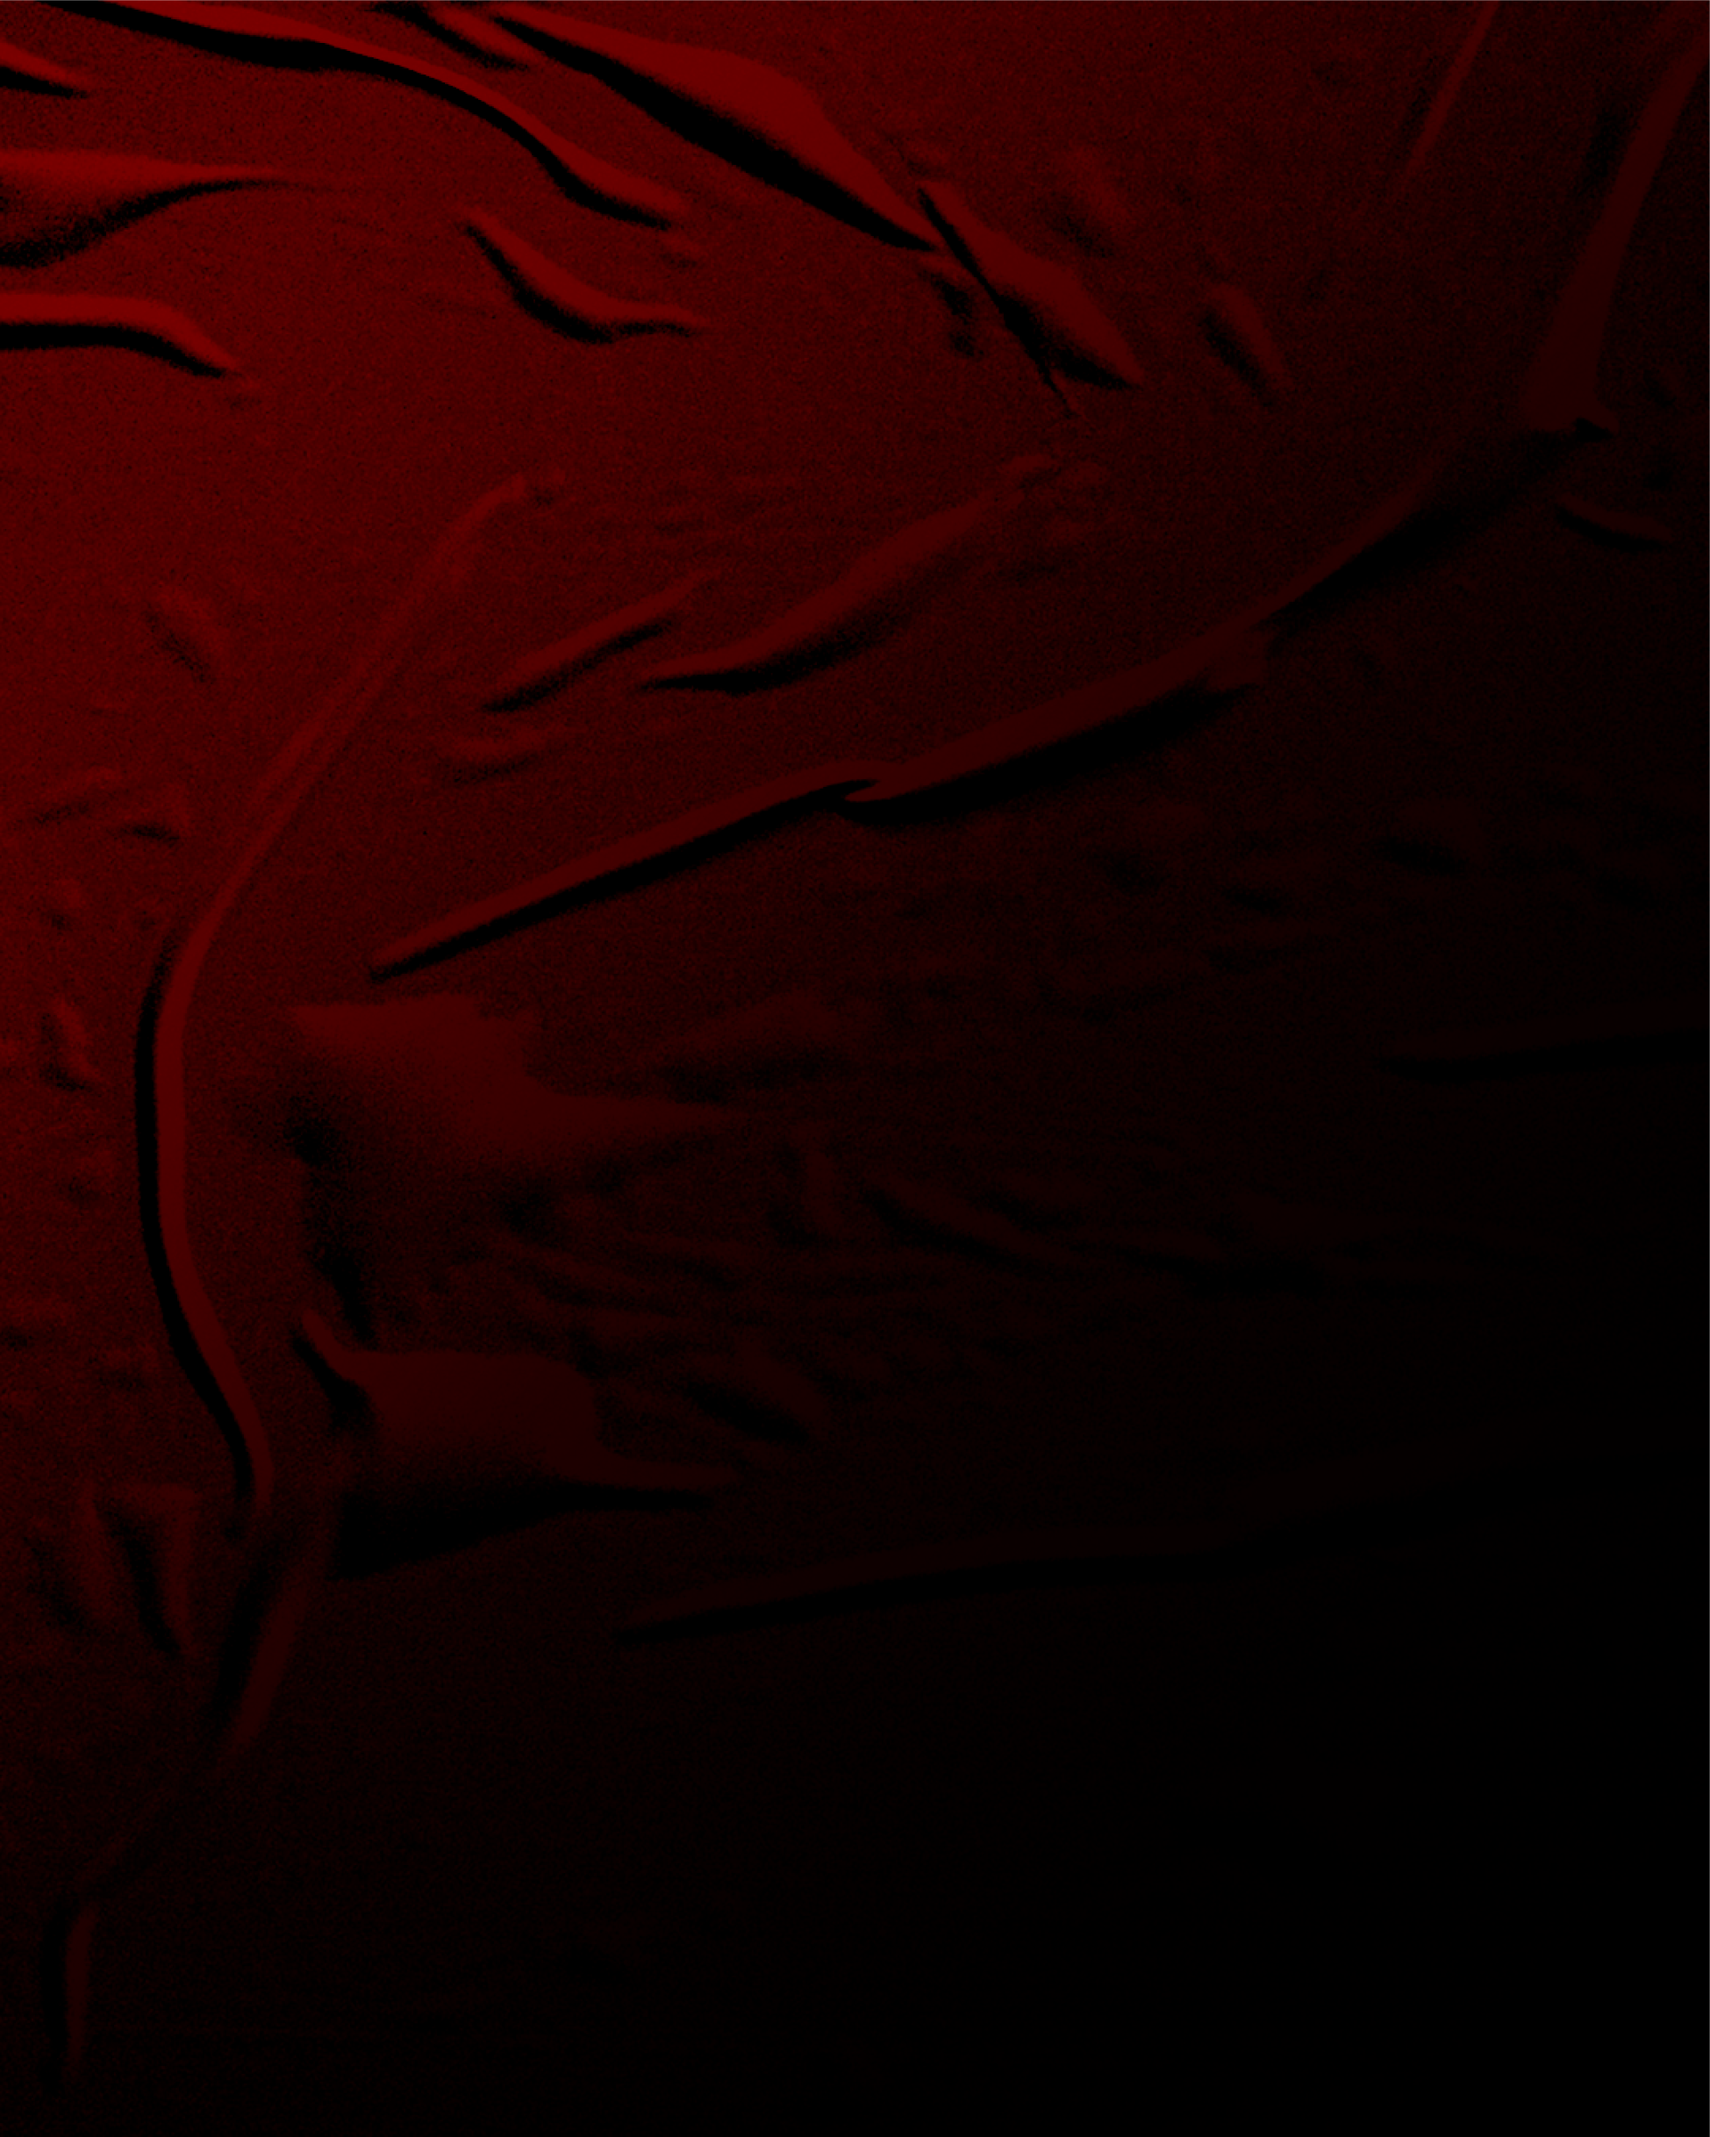
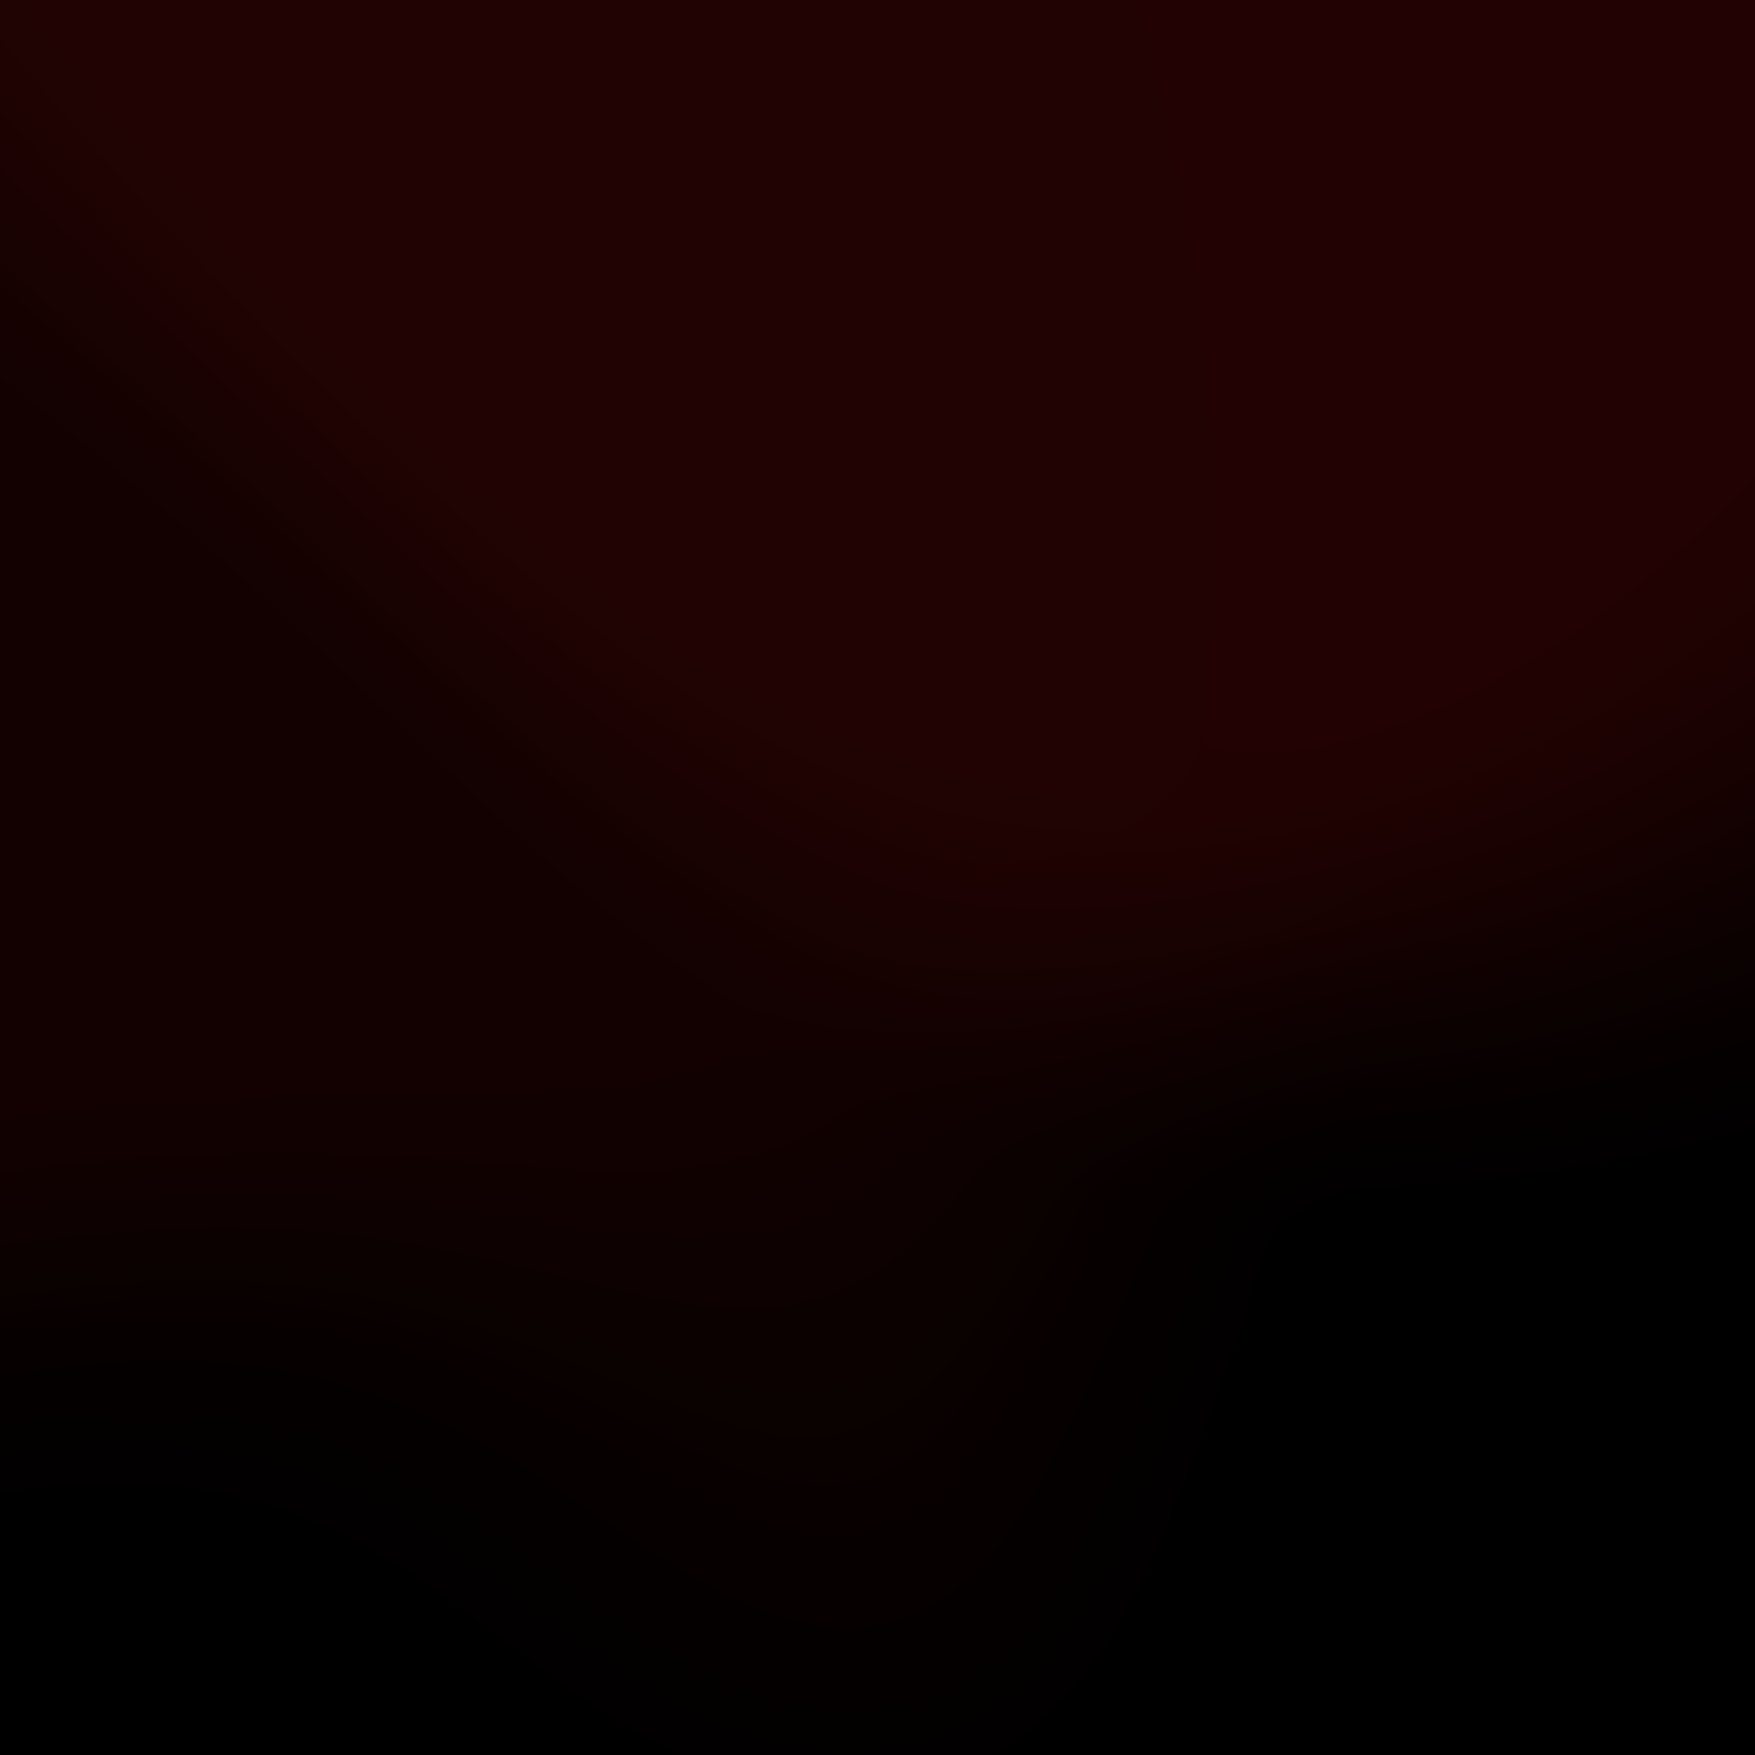
visual changes on under_construction page

diff --git a/src/theme/components/Button.ts b/src/theme/components/Button.ts
@@ -11,48 +11,27 @@ export const Button = {
   // styles for different sizes ("sm", "md", "lg")
   sizes: {
     sm: {
-      px: 2,
-      py: 1,
-      borderRadius: "2em",
+      borderRadius: "0.75em",
     },
   },
   // styles for different visual variants ("outline", "solid")
   variants: {
-    light: {
-      color: "black",
-      fontWeight: "normal",
-      _hover: {
-        bg: darken("white", 5),
-      },
-      _focus: {
-        borderColor: "black",
-        paddingBottom: 2,
-        borderBottomWidth: 1,
-      },
-      _active: {
-        borderColor: "black",
-        paddingBottom: 2,
-        borderBottomWidth: 1,
-      },
-    },
-    dark: {
+    primary: {
       color: "white",
-
       fontWeight: "normal",
+      border: "1px solid red",
+      bg: "red",
+      paddingX: 4,
       _hover: {
-        bg: whiten("black", 10),
+        bg: "transparent",
+        color: "red"
       },
       _focus: {
-        borderColor: "white",
-        paddingBottom: 2,
-        borderBottomWidth: 1,
-        borderRadius: 0,
+        bg: "red.900",
+        color: "red"
       },
       _active: {
-        borderColor: "white",
-        paddingBottom: 2,
-        borderBottomWidth: 1,
-        borderRadius: 0,
+        bg: "red.400",
       },
     },
   },

diff --git a/pages/index.tsx b/pages/index.tsx
@@ -22,7 +22,7 @@ const Home: NextPage = () => {
           flexDir="column"
           height="100vh"
           w="100vw"
-          bg="#370202"
+          backgroundImage="/images/under_construction/background.png"
           objectPosition="center"
           color="white"
           padding={8}
@@ -32,12 +32,12 @@ const Home: NextPage = () => {
           <Heading textAlign="center" lineHeight={1} fontSize="1.5rem">
             Welcome to <Link href="/">SP Nutrition Argentina</Link>
           </Heading>
-          <Text lineHeight={1}>
+          <Text lineHeight="1.25rem">
             Estamos trabajando en un nuevo sitio. Mientras tanto, visitá nuestra
             tienda online 👇
           </Text>
           <a href="https://www.tienda.spnutrition.com.ar" target="blank">
-            <Button>Ir a la tienda</Button>
+            <Button variant="primary">Ir a la tienda</Button>
           </a>
         </Center>
       </main>
